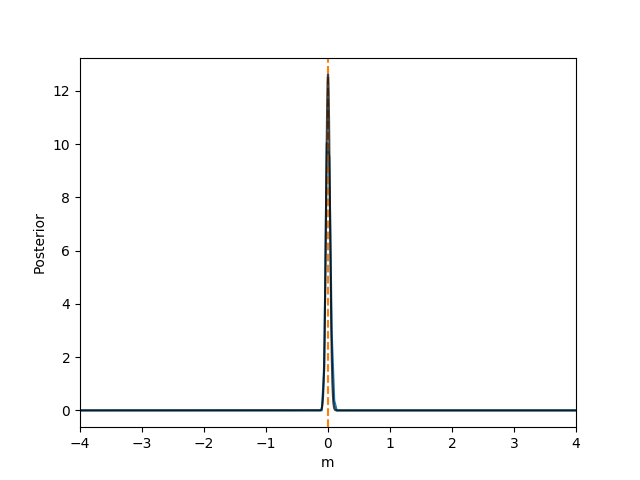
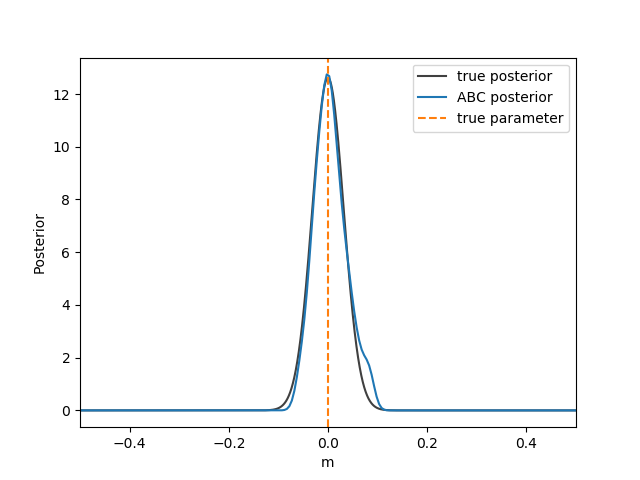
better plots for normal

diff --git a/pyabc_tests/normal/model.py b/pyabc_tests/normal/model.py
@@ -12,7 +12,7 @@ import os
 # noise
 std = 1
 # number of replicates
-n_r = 100
+n_r = 1000
 
 
 def model(th):
@@ -64,22 +64,32 @@ pop_size = 500
 
 # visualize
 
-def visualize(label, history, show_true=True):
+def visualize(label, history, show_true=True, legend=True):
     t = history.max_t
+    lb = -0.5
+    ub = 0.5
     df, w = history.get_distribution(m=0, t=t)
-    ax = pyabc.visualization.plot_kde_1d(df, w, xmin=prior_lb, xmax=prior_ub,
-        x='m', numx=200, refval=th_true)
-
+    _, ax = plt.subplots()
+    
     if show_true:
         integral = integrate.quad(pdf_true, prior_lb, prior_ub)[0]
         def pdf(x):
             return pdf_true(x) / integral
 
-        xs = np.linspace(prior_lb, prior_ub, 10000)
+        xs = np.linspace(lb, ub, 10000)
         ys = []
         for x in xs:
             ys.append(pdf(x))
         ax.plot(xs, ys, '-', color='k', alpha=0.75)
+
+    ax = pyabc.visualization.plot_kde_1d(df, w, xmin=lb, xmax=ub,
+        x='m', numx=200, refval=th_true, ax=ax)
+    
+    if legend:
+        if show_true:
+            ax.legend(['true posterior', 'ABC posterior', 'true parameter'])
+        else:
+            ax.legend(['ABC posterior', 'true parameter'])
 
     plt.savefig(label + "_kde_1d_" + str(t) + ".png")
     plt.close()
